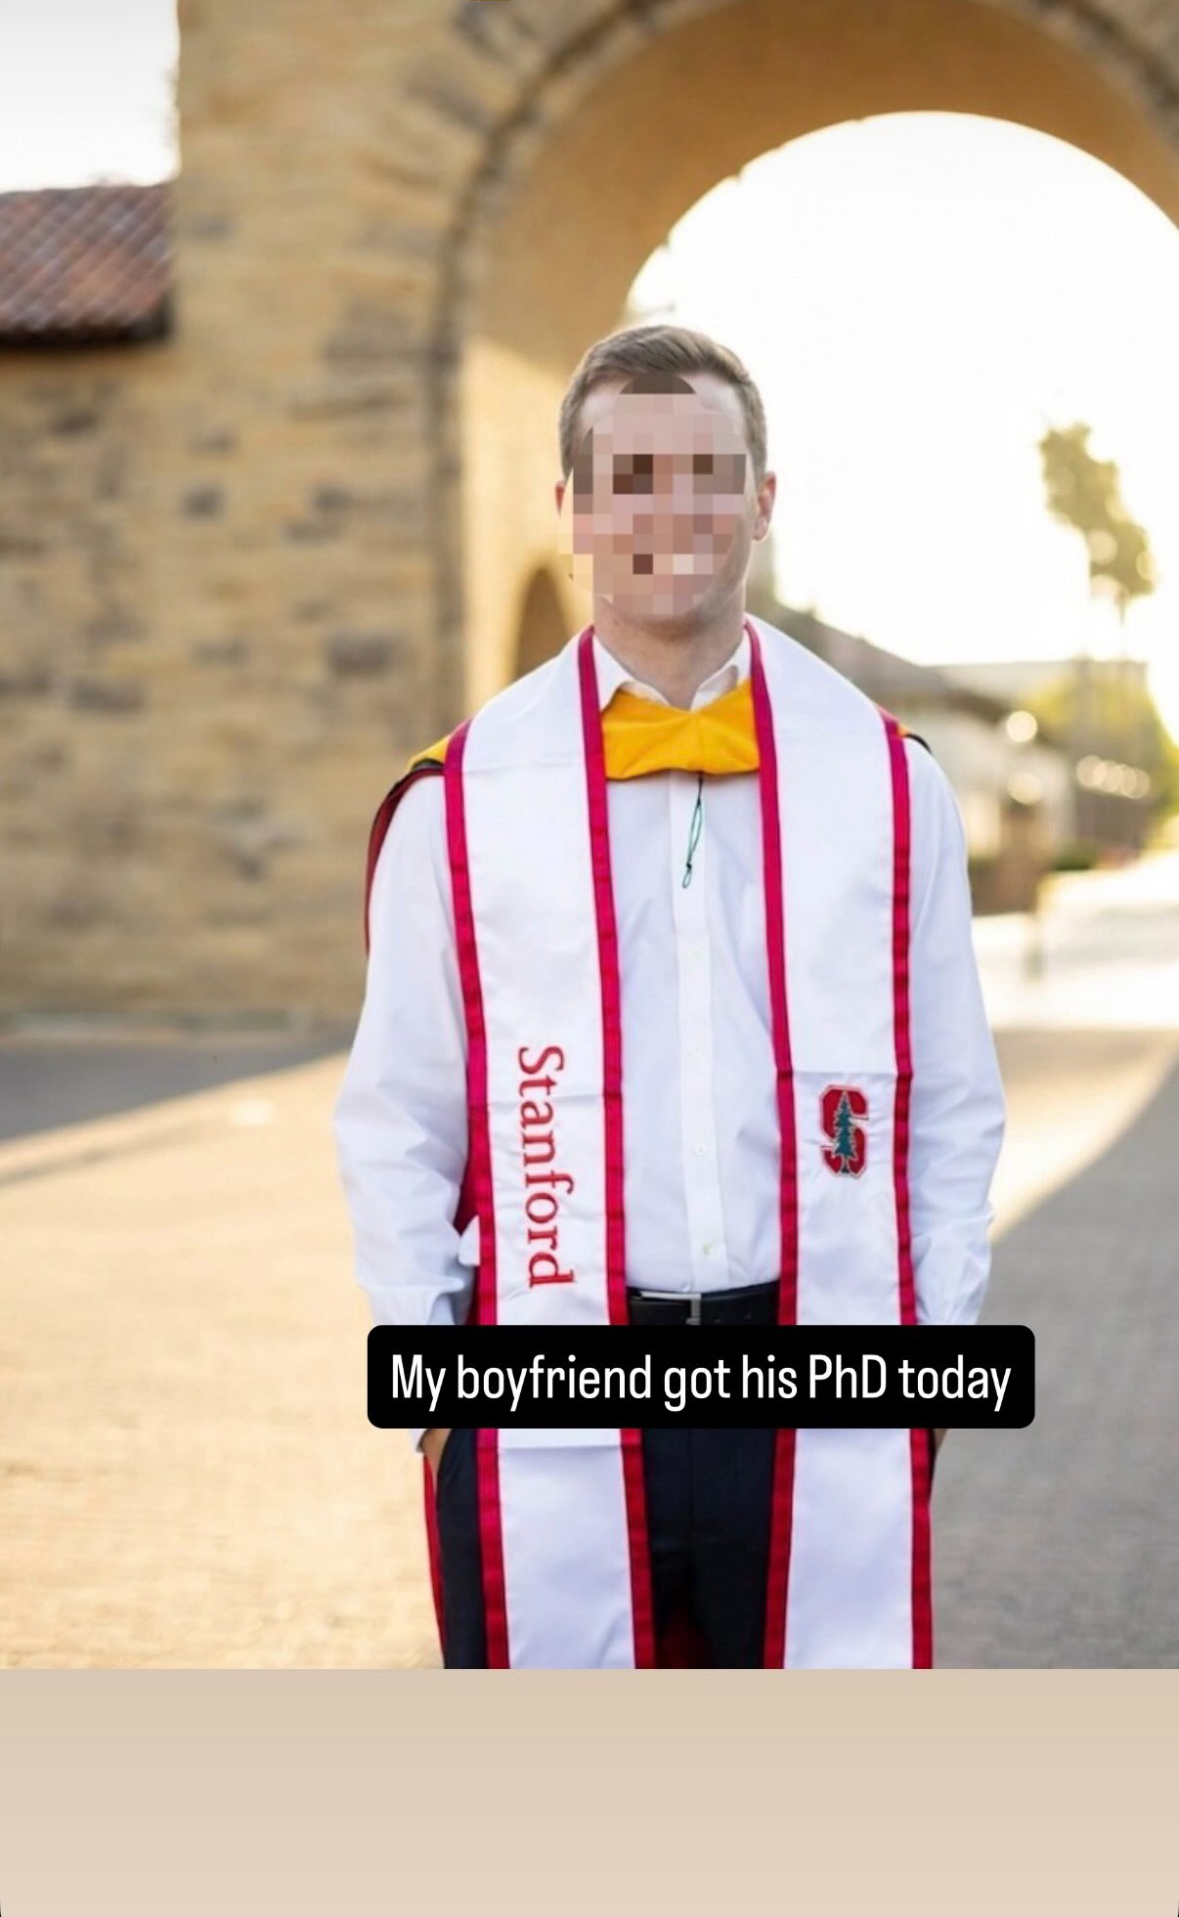
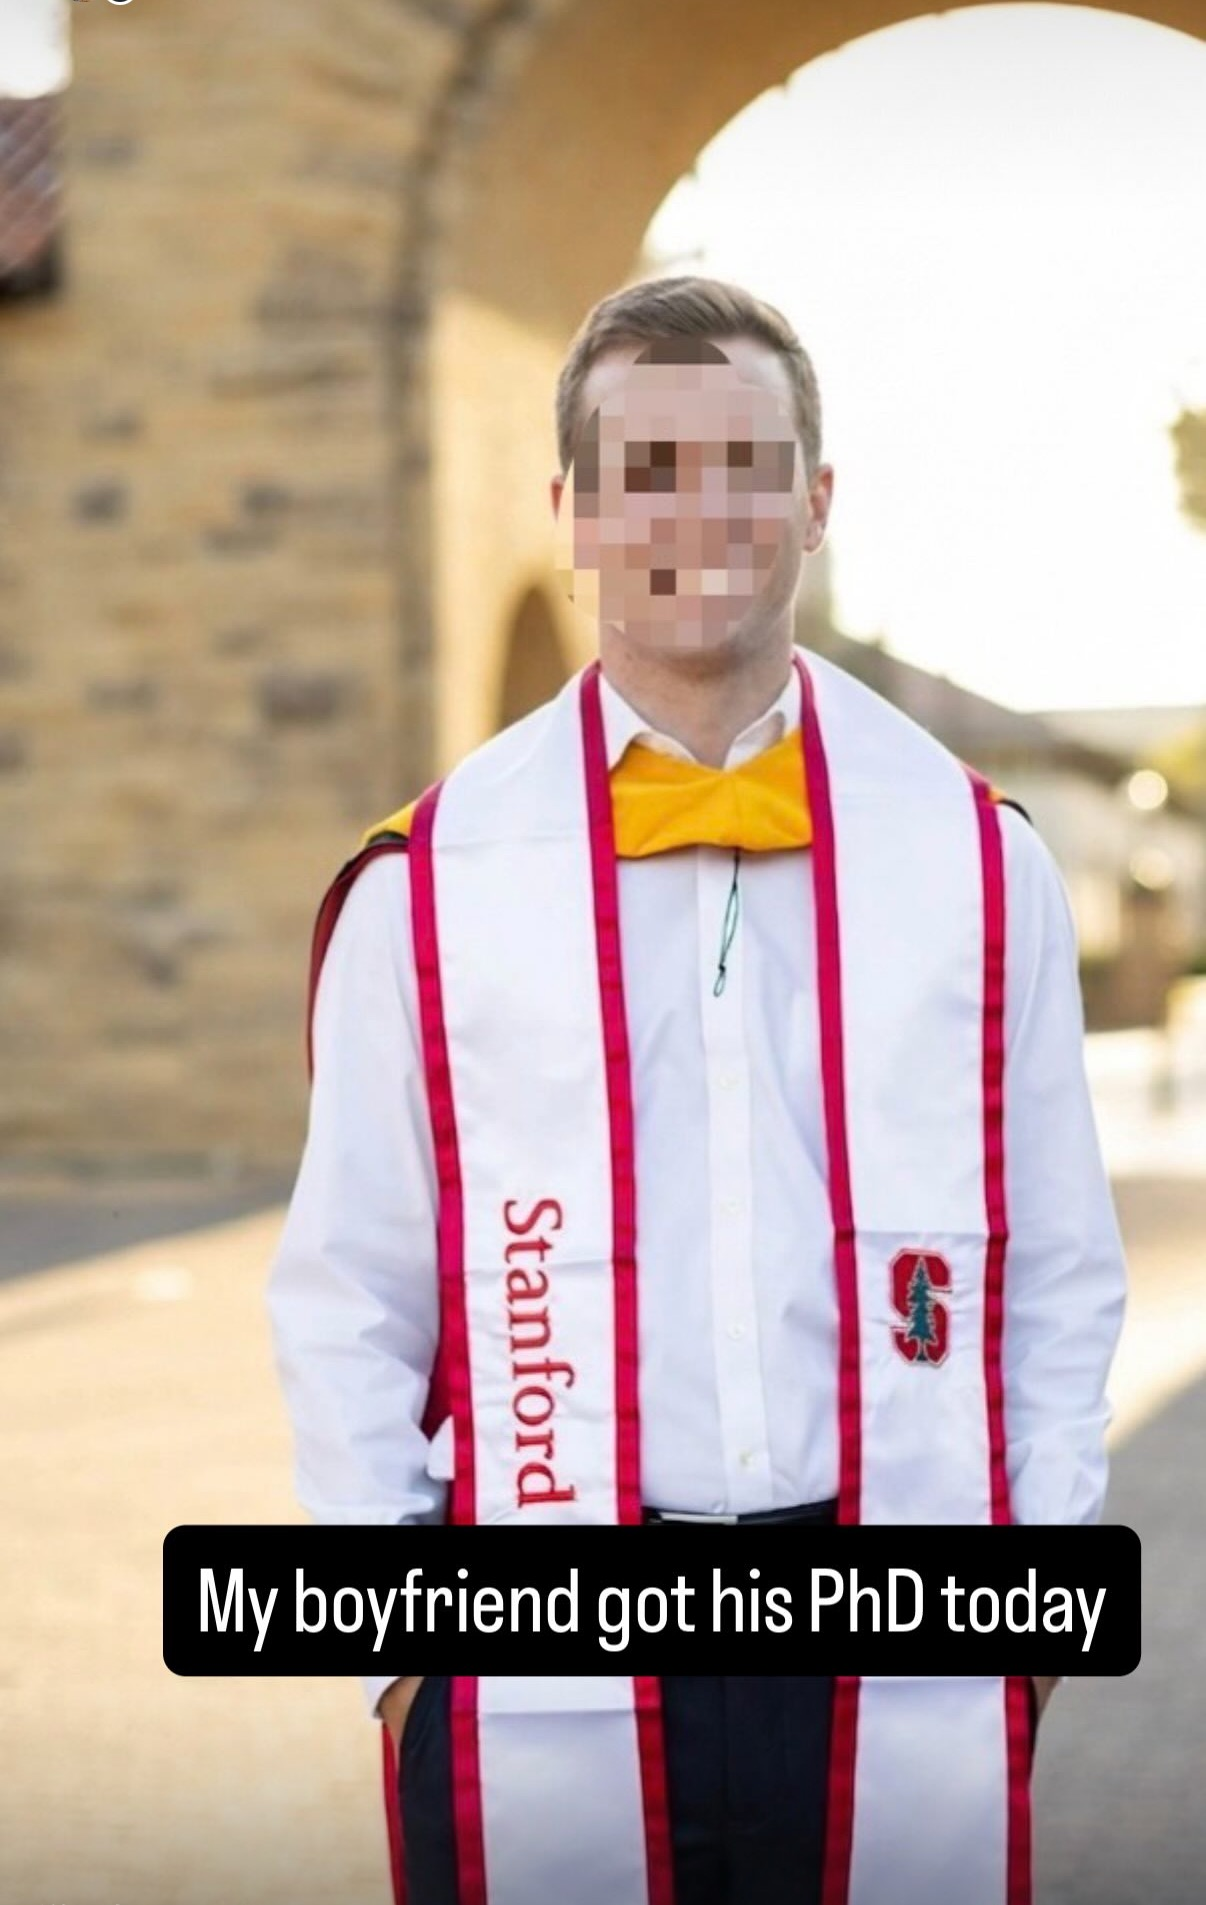
Add files via upload

diff --git a/control_set2/control_set2.html b/control_set2/control_set2.html
@@ -343,9 +343,9 @@ const stories = [
     duration: 10000
   },
   {
-    bg:      'url("filler2.jpg") center/contain no-repeat',
+    bg:      'url("filler.jpg") center/contain no-repeat',
     caption: '',
-    label:   'campus flowers',
+    label:   'Exploring',
     type:    '',
     duration: 10000
   },